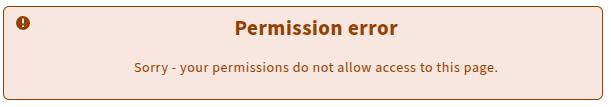
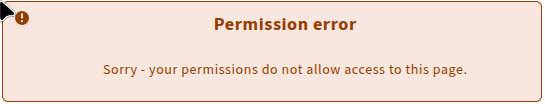
UIFC-475-noPermissionMessage use stripes styling, use node for message

Changed region(s): [[0.0, 0.0, 0.9982, 0.9808], [0.1872, 0.5769, 0.8734, 0.75], [0.3743, 0.1731, 0.655, 0.3462]]

diff --git a/lib/NoPermissionMessage/NoPermissionMessage.js b/lib/NoPermissionMessage/NoPermissionMessage.js
@@ -1,23 +1,29 @@
 import PropTypes from 'prop-types';
 import { FormattedMessage } from 'react-intl';
 
-import { MessageBanner } from '@folio/stripes/components';
+import {
+  Headline,
+  Layout,
+  MessageBanner,
+} from '@folio/stripes/components';
 
 import css from './NoPermissionMessage.css';
 
 const NoPermissionMessage = ({ message, type = 'warning' }) => (
+
   <MessageBanner
     className={css.messageContainer}
-    contentClassName={css.messageContent}
     type={type}
   >
-    <h2><FormattedMessage id="stripes-smart-components.permissionError" /></h2>
-    <p>{message ?? <FormattedMessage id="stripes-smart-components.permissionsDoNotAllowAccess" />}</p>
+    <Layout className="textCentered centerContent">
+      <Headline size="large" tag="h2"><FormattedMessage id="stripes-smart-components.permissionError" /></Headline>
+      <p>{message ?? <FormattedMessage id="stripes-smart-components.permissionsDoNotAllowAccess" />}</p>
+    </Layout>
   </MessageBanner>
 );
 
 NoPermissionMessage.propTypes = {
-  message: PropTypes.string,
+  message: PropTypes.node,
   type: PropTypes.string,
 };
 

diff --git a/lib/NoPermissionMessage/NoPermissionMessage.css b/lib/NoPermissionMessage/NoPermissionMessage.css
@@ -1,11 +1,4 @@
 .messageContainer {
   margin: 0.5rem auto;
-  max-width: 600px;
-}
-
-.messageContent {
-  text-align: center;
-}
-.messageContent h2:first-child {
-  margin-top: 0;
+  max-width: 540px;
 }

diff --git a/lib/NoPermissionMessage/README.md b/lib/NoPermissionMessage/README.md
@@ -17,7 +17,7 @@ if (!hasPerms) return <NoPermissionMessage />;
 
 Name | type | description | default | options | required
 --- | --- | --- | --- | --- | ---
-`message` | string | The text shown in the paragraph | stripes-smart-components.permissionsDoNotAllowAccess (translated) | - | false
+`message` | node | The text shown in the paragraph. Accepts a string or a React node (e.g. `<FormattedMessage />`). | stripes-smart-components.permissionsDoNotAllowAccess (translated) | - | false
 `type` | string | Sets the style of the `MessageBanner` | `warning` | `default`, `error`, `success`, `warning` | false
 
 ## Example
